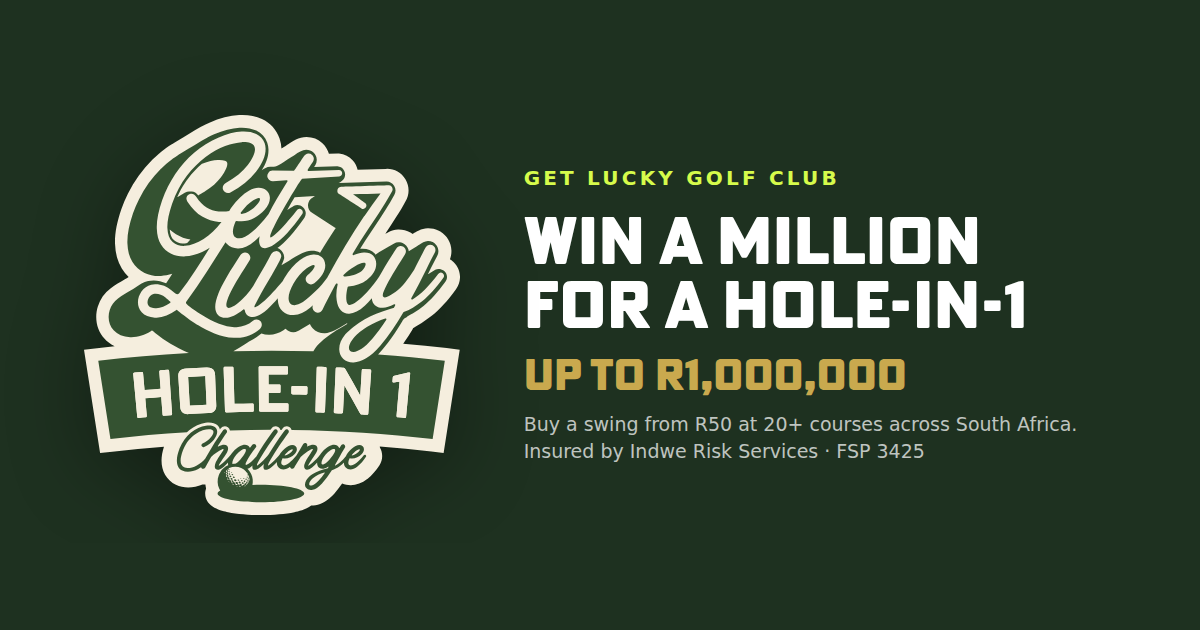
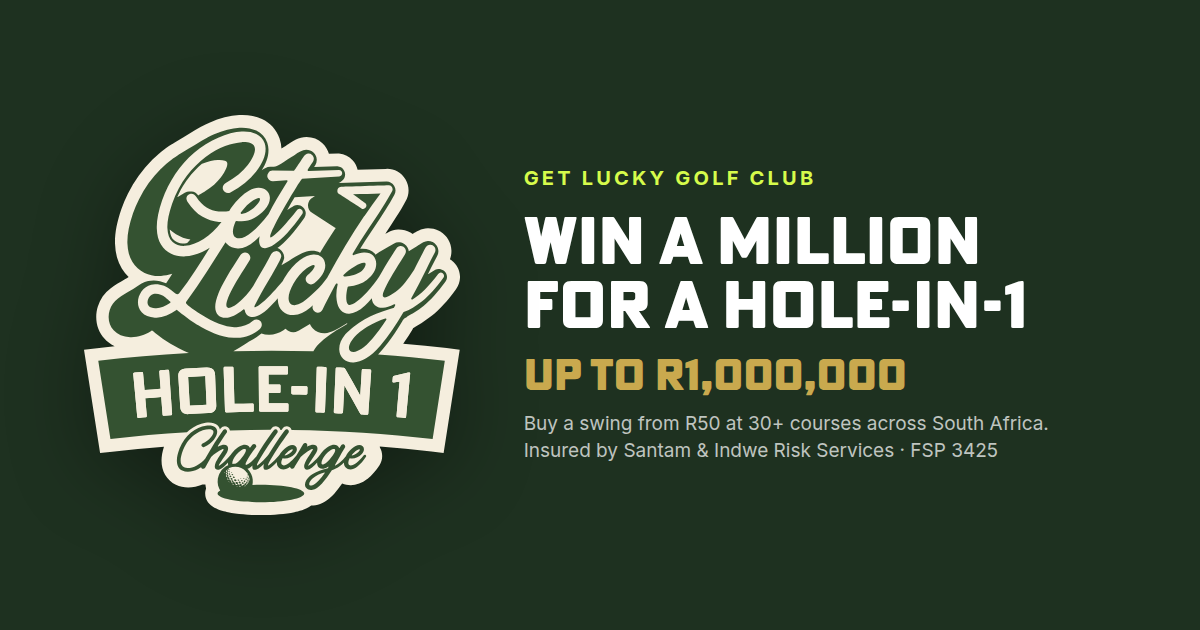
Spell Mossel Bay correctly, and say "30+ courses" (#66)
* Spell Mossel Bay correctly in the course list

The course dropdown on /form, /form-2 and /buy-a-swing read "Mosselbay Golf
Club". It is now "Mossel Bay Golf Club", matching the course tile on the
homepage; the membership slug (mossel-bay) is unchanged.

The name is stored on every entry, so the old spelling stays readable:
- LEGACY_COURSE_NAMES / canonicalCourse() (constants.ts) map "Mosselbay
  Golf Club" to the new name.
- Validation runs the course through it before checking the list, so a
  form loaded before this deploy still submits, and is stored under the
  new spelling.
- The ops membership funnel looks join links up through it, so leads saved
  as "Mosselbay" keep their /join/mossel-bay link.

Past rows in the database are not rewritten.

tests/courses.test.ts covers the dropdown spelling, the alias table, the
stale-form path, an unknown course still being refused, and the join slug.

Claude-Session: https://claude.ai/code/session_01NbPV3x5hX5DWt2pc6gExz9

* Say "30+ courses" everywhere the site counted 20+

The hero pill now reads "Live at 30+ courses across South Africa", and every
other place that counted courses says the same: the site description,
Open Graph and Twitter text and JSON-LD in layout.tsx, the footer blurb
(SITE.description), the partner page's "Partner courses live" stat, and the
agency page's on-course channel.

The share image (public/og-image.png) had "20+ courses" baked in. It is
[…]

Changed region(s): [[0.4317, 0.6635, 0.8942, 0.754], [0.4317, 0.2714, 0.7092, 0.3016]]

diff --git a/src/lib/validation.ts b/src/lib/validation.ts
@@ -1,8 +1,17 @@
 import { z } from "zod";
-import { COURSES, PRIZE_TIERS } from "./constants.ts";
+import { COURSES, PRIZE_TIERS, canonicalCourse } from "./constants.ts";
 
 const requiredString = (field: string) =>
   z.string({ error: `${field} is required` }).trim().min(1, `${field} is required`);
+
+const courseValues = COURSES as readonly string[];
+
+// A course from the list. A page loaded before a course was renamed still
+// sends the old spelling; it is accepted and stored under the current one.
+const courseName = (message: string) =>
+  requiredString("Course")
+    .transform(canonicalCourse)
+    .refine((v) => courseValues.includes(v), message);
 
 const consent = z.literal(true, { error: "You must agree to continue" });
 // Communication opt-in is optional — accept any boolean. Users who don't tick
@@ -32,10 +41,7 @@ export const clubMemberFields = {
   name: requiredString("Name").max(120),
   email: requiredString("Email").email("Enter a valid email").max(160),
   mobile: phone,
-  course: requiredString("Course").refine(
-    (v) => (COURSES as readonly string[]).includes(v),
-    "Choose a partner course",
-  ),
+  course: courseName("Choose a partner course"),
   consentCommunication: optionalConsent,
   // Meta requires WhatsApp to be named explicitly before any business-initiated
   // message, and the wording must say what the golfer will be messaged about —
@@ -147,18 +153,13 @@ export const simulatorSchema = z.object({
   consentTerms: consent,
 });
 const tierEntries = PRIZE_TIERS.map((t) => t.entryAmount) as readonly number[];
-const courseValues = COURSES as readonly string[];
-
 export const voucherSchema = z
   .object({
     entryAmount: z.coerce.number().refine(
       (v) => tierEntries.includes(v),
       { message: "Choose an entry amount" },
     ),
-    course: requiredString("Course").refine(
-      (v) => courseValues.includes(v),
-      "Choose a partner course",
-    ),
+    course: courseName("Choose a partner course"),
     fullName: requiredString("Full name").max(120),
     email: requiredString("Email").email("Enter a valid email").max(160),
     mobile: phone,
@@ -227,10 +228,7 @@ export const freeEntrySchema = z.object({
   // Optional on the sponsored form — mobile is the primary contact channel.
   email: z.string().trim().email("Enter a valid email").max(160).optional().or(z.literal("")),
   mobile: phone,
-  course: requiredString("Course").refine(
-    (v) => (COURSES as readonly string[]).includes(v),
-    "Choose a course",
-  ),
+  course: courseName("Choose a course"),
   event: z.string().trim().max(120).optional().or(z.literal("")),
   consentWhatsApp: optionalConsent,
   consentTerms: consent,

diff --git a/src/app/layout.tsx b/src/app/layout.tsx
@@ -27,7 +27,7 @@ export const metadata: Metadata = {
     template: "%s | Get Lucky Golf Club",
   },
   description:
-    "South Africa's leading hole-in-one golf activation. Buy a swing from R50, play the signature par-3, and win up to R1,000,000 at 20+ premium courses nationwide. Fully insured by Santam & Indwe Risk Services.",
+    "South Africa's leading hole-in-one golf activation. Buy a swing from R50, play the signature par-3, and win up to R1,000,000 at 30+ premium courses nationwide. Fully insured by Santam & Indwe Risk Services.",
   keywords: [
     "hole-in-one challenge",
     "hole-in-one challenge South Africa",
@@ -53,7 +53,7 @@ export const metadata: Metadata = {
   openGraph: {
     title: "Get Lucky Golf Club | Hole-in-One Challenge South Africa",
     description:
-      "Buy a swing from R50, sink a hole-in-one on the signature par-3, and win up to R1,000,000. Live at 20+ premium courses across South Africa. Insured by Santam & Indwe Risk Services.",
+      "Buy a swing from R50, sink a hole-in-one on the signature par-3, and win up to R1,000,000. Live at 30+ premium courses across South Africa. Insured by Santam & Indwe Risk Services.",
     type: "website",
     locale: "en_ZA",
     url: "https://www.getluckygolf.co.za",
@@ -71,7 +71,7 @@ export const metadata: Metadata = {
     card: "summary_large_image",
     title: "Get Lucky Golf Club | Hole-in-One Challenge South Africa",
     description:
-      "Buy a swing from R50. Sink a hole-in-one. Win up to R1,000,000. 20+ premium courses across SA.",
+      "Buy a swing from R50. Sink a hole-in-one. Win up to R1,000,000. 30+ premium courses across SA.",
     images: ["/og-image.png"],
   },
   // The V2 mark, drawn for the app's icon set (getluckyjo/getluckyapp public/icons).
@@ -114,7 +114,7 @@ export default function RootLayout({
     url: "https://www.getluckygolf.co.za",
     logo: "https://www.getluckygolf.co.za/icons/icon-512.png",
     description:
-      "South Africa's leading hole-in-one golf activation. Buy a swing, play the signature par-3, and win up to R1,000,000 at 20+ premium courses. Insured by Santam & Indwe Risk Services.",
+      "South Africa's leading hole-in-one golf activation. Buy a swing, play the signature par-3, and win up to R1,000,000 at 30+ premium courses. Insured by Santam & Indwe Risk Services.",
     email: "johannes@getluckygolfclub.com",
     address: {
       "@type": "PostalAddress",

diff --git a/tests/courses.test.ts b/tests/courses.test.ts
@@ -1,0 +1,58 @@
+/**
+ * Course names: the dropdown spelling, and old spellings still in the
+ * database. "Mosselbay Golf Club" was renamed "Mossel Bay Golf Club"; entries
+ * saved before then keep the old name, and a form loaded before the rename
+ * still sends it.
+ */
+import { test } from "node:test";
+import assert from "node:assert/strict";
+
+const { COURSES, COURSE_SLUGS, LEGACY_COURSE_NAMES, canonicalCourse } = await import(
+  "../src/lib/constants.ts"
+);
+const { freeEntrySchema } = await import("../src/lib/validation.ts");
+
+test("the dropdown says Mossel Bay, not Mosselbay", () => {
+  assert.ok(COURSES.includes("Mossel Bay Golf Club"));
+  assert.ok(!(COURSES as readonly string[]).includes("Mosselbay Golf Club"));
+});
+
+test("every old spelling points at a course that still exists", () => {
+  for (const [old, current] of Object.entries(LEGACY_COURSE_NAMES)) {
+    assert.ok(current in COURSE_SLUGS, `${old} → ${current} is not a current course`);
+    assert.ok(!(old in COURSE_SLUGS), `${old} is still a current course name`);
+  }
+});
+
+test("canonicalCourse maps the old spelling and leaves everything else alone", () => {
+  assert.equal(canonicalCourse("Mosselbay Golf Club"), "Mossel Bay Golf Club");
+  assert.equal(canonicalCourse("Mossel Bay Golf Club"), "Mossel Bay Golf Club");
+  assert.equal(canonicalCourse("Atlantic Beach"), "Atlantic Beach");
+  assert.equal(canonicalCourse("Nowhere Golf Club"), "Nowhere Golf Club");
+});
+
+test("an old spelling from a stale form is accepted and stored under the new one", () => {
+  const parsed = freeEntrySchema.safeParse({
+    name: "Test Golfer",
+    mobile: "082 555 1234",
+    course: "Mosselbay Golf Club",
+    consentTerms: true,
+  });
+  assert.ok(parsed.success);
+  assert.equal(parsed.data.course, "Mossel Bay Golf Club");
+});
+
+test("a course that is not on the list is still refused", () => {
+  const parsed = freeEntrySchema.safeParse({
+    name: "Test Golfer",
+    mobile: "082 555 1234",
+    course: "Nowhere Golf Club",
+    consentTerms: true,
+  });
+  assert.ok(!parsed.success);
+});
+
+test("old Mossel Bay entries still resolve to the club's membership page", () => {
+  const slug = COURSE_SLUGS[canonicalCourse("Mosselbay Golf Club") as keyof typeof COURSE_SLUGS];
+  assert.equal(slug, "mossel-bay");
+});

diff --git a/src/lib/constants.ts b/src/lib/constants.ts
@@ -14,7 +14,7 @@ export const SITE = {
   name: "Get Lucky Golf Club",
   tagline: "South Africa's Leading Hole-in-One Golf Activation",
   description:
-    "Buy a swing from R50, sink a hole-in-one, win up to R1,000,000. Live at 20+ courses nationwide. Fully insured by Santam & Indwe Risk Services.",
+    "Buy a swing from R50, sink a hole-in-one, win up to R1,000,000. Live at 30+ courses nationwide. Fully insured by Santam & Indwe Risk Services.",
   email: "johannes@getluckygolfclub.com",
   partnershipsEmail: "johannes@getluckygolfclub.com",
   whatsapp: "https://wa.me/27609615091",
@@ -73,7 +73,7 @@ export const COURSE_SLUGS = {
   "Highland Gate": "highland-gate",
   "Metropolitan 9th Hole": "metropolitan",
   "Metropolitan 18th Hole": "metropolitan",
-  "Mosselbay Golf Club": "mossel-bay",
+  "Mossel Bay Golf Club": "mossel-bay",
   "Mount Edgecombe Country Club": "mount-edgecombe",
   "Rondebosch Golf Club": "rondebosch",
   "San Lameer": "san-lameer",
@@ -87,6 +87,21 @@ export const COURSE_SLUGS = {
 } as const;
 
 export const COURSES = Object.keys(COURSE_SLUGS) as ReadonlyArray<keyof typeof COURSE_SLUGS>;
+
+/**
+ * Course names as they were once spelled. Rows already in the database keep
+ * the spelling they were saved with, so anything that looks a course up by
+ * name goes through canonicalCourse() first. When a key in COURSE_SLUGS is
+ * renamed, add its old spelling here.
+ */
+export const LEGACY_COURSE_NAMES: Readonly<Record<string, keyof typeof COURSE_SLUGS>> = {
+  "Mosselbay Golf Club": "Mossel Bay Golf Club",
+};
+
+/** The current spelling of a course name; any other name comes back as is. */
+export function canonicalCourse(name: string): string {
+  return LEGACY_COURSE_NAMES[name] ?? name;
+}
 
 export const ROUTES = {
   home: "/",

diff --git a/src/lib/ops/membership.ts b/src/lib/ops/membership.ts
@@ -17,7 +17,7 @@
  * CONSENT_FORM_VERSION in src/lib/whatsapp.ts).
  */
 
-import { COURSE_SLUGS } from "@/lib/constants";
+import { COURSE_SLUGS, canonicalCourse } from "@/lib/constants";
 import { isSubsDbConfigured, listMembers } from "@/lib/subscriptions-db";
 import { loadIndweReport, type IndweLead } from "@/lib/ops/indwe";
 import type { DataSource } from "@/lib/ops/metrics";
@@ -87,7 +87,8 @@ function consentOf(rows: IndweLead[]): ConsentState {
 }
 
 function joinUrlFor(course: string): string | null {
-  const slug = COURSE_SLUGS[course as keyof typeof COURSE_SLUGS];
+  // Old leads keep the spelling they were saved with ("Mosselbay").
+  const slug = COURSE_SLUGS[canonicalCourse(course) as keyof typeof COURSE_SLUGS];
   return slug ? `${MEMBERSHIP_HOST}/join/${slug}` : null;
 }
 

diff --git a/src/components/GolfAgency.tsx b/src/components/GolfAgency.tsx
@@ -30,8 +30,8 @@ const platforms = [
     name: "Hole-in-One Challenge",
     type: "On-Course Activation",
     description:
-      "Branded signage, tee boxes, and prize boards at 20+ premium courses. Solar-powered cameras capture every attempt. Seen by thousands of golfers every month — in a relaxed, premium environment with unmatched dwell time.",
-    highlights: ["20+ live courses", "Camera-verified exposure", "Branded tee box signage"],
+      "Branded signage, tee boxes, and prize boards at 30+ premium courses. Solar-powered cameras capture every attempt. Seen by thousands of golfers every month — in a relaxed, premium environment with unmatched dwell time.",
+    highlights: ["30+ live courses", "Camera-verified exposure", "Branded tee box signage"],
   },
   {
     icon: Tv,

diff --git a/scripts/og/og-image.html b/scripts/og/og-image.html
@@ -31,7 +31,7 @@
     <span class="eyebrow">Get Lucky Golf Club</span>
     <h1>Win a million<br>for a hole-in-1</h1>
     <span class="prize">Up to R1,000,000</span>
-    <span class="sub">Buy a swing from R50 at 20+ courses across South Africa.<br>Insured by Indwe Risk Services · FSP 3425</span>
+    <span class="sub">Buy a swing from R50 at 30+ courses across South Africa.<br>Insured by Santam &amp; Indwe Risk Services · FSP 3425</span>
   </div>
 </body>
 </html>

diff --git a/src/app/become-a-partner/page.tsx b/src/app/become-a-partner/page.tsx
@@ -56,7 +56,7 @@ export default function BecomeAPartnerPage() {
           stats={[
             { value: "R1M", label: "Top prize, fully insured" },
             { value: "R0", label: "Upfront cost to your club" },
-            { value: "20+", label: "Partner courses live" },
+            { value: "30+", label: "Partner courses live" },
             { value: "4G", label: "Solar cameras on your hole" },
           ]}
         />

diff --git a/src/components/home/HomeHero.tsx b/src/components/home/HomeHero.tsx
@@ -46,7 +46,7 @@ export default function HomeHero() {
             />
             <span className="chip chip--dark fade-up">
               <span className="live-dot" aria-hidden />
-              Live at 20+ courses across South Africa
+              Live at 30+ courses across South Africa
             </span>
 
             <h1 className="display-xl lg:text-[clamp(3.5rem,5.3vw,5.25rem)] mt-6 fade-up-1">
